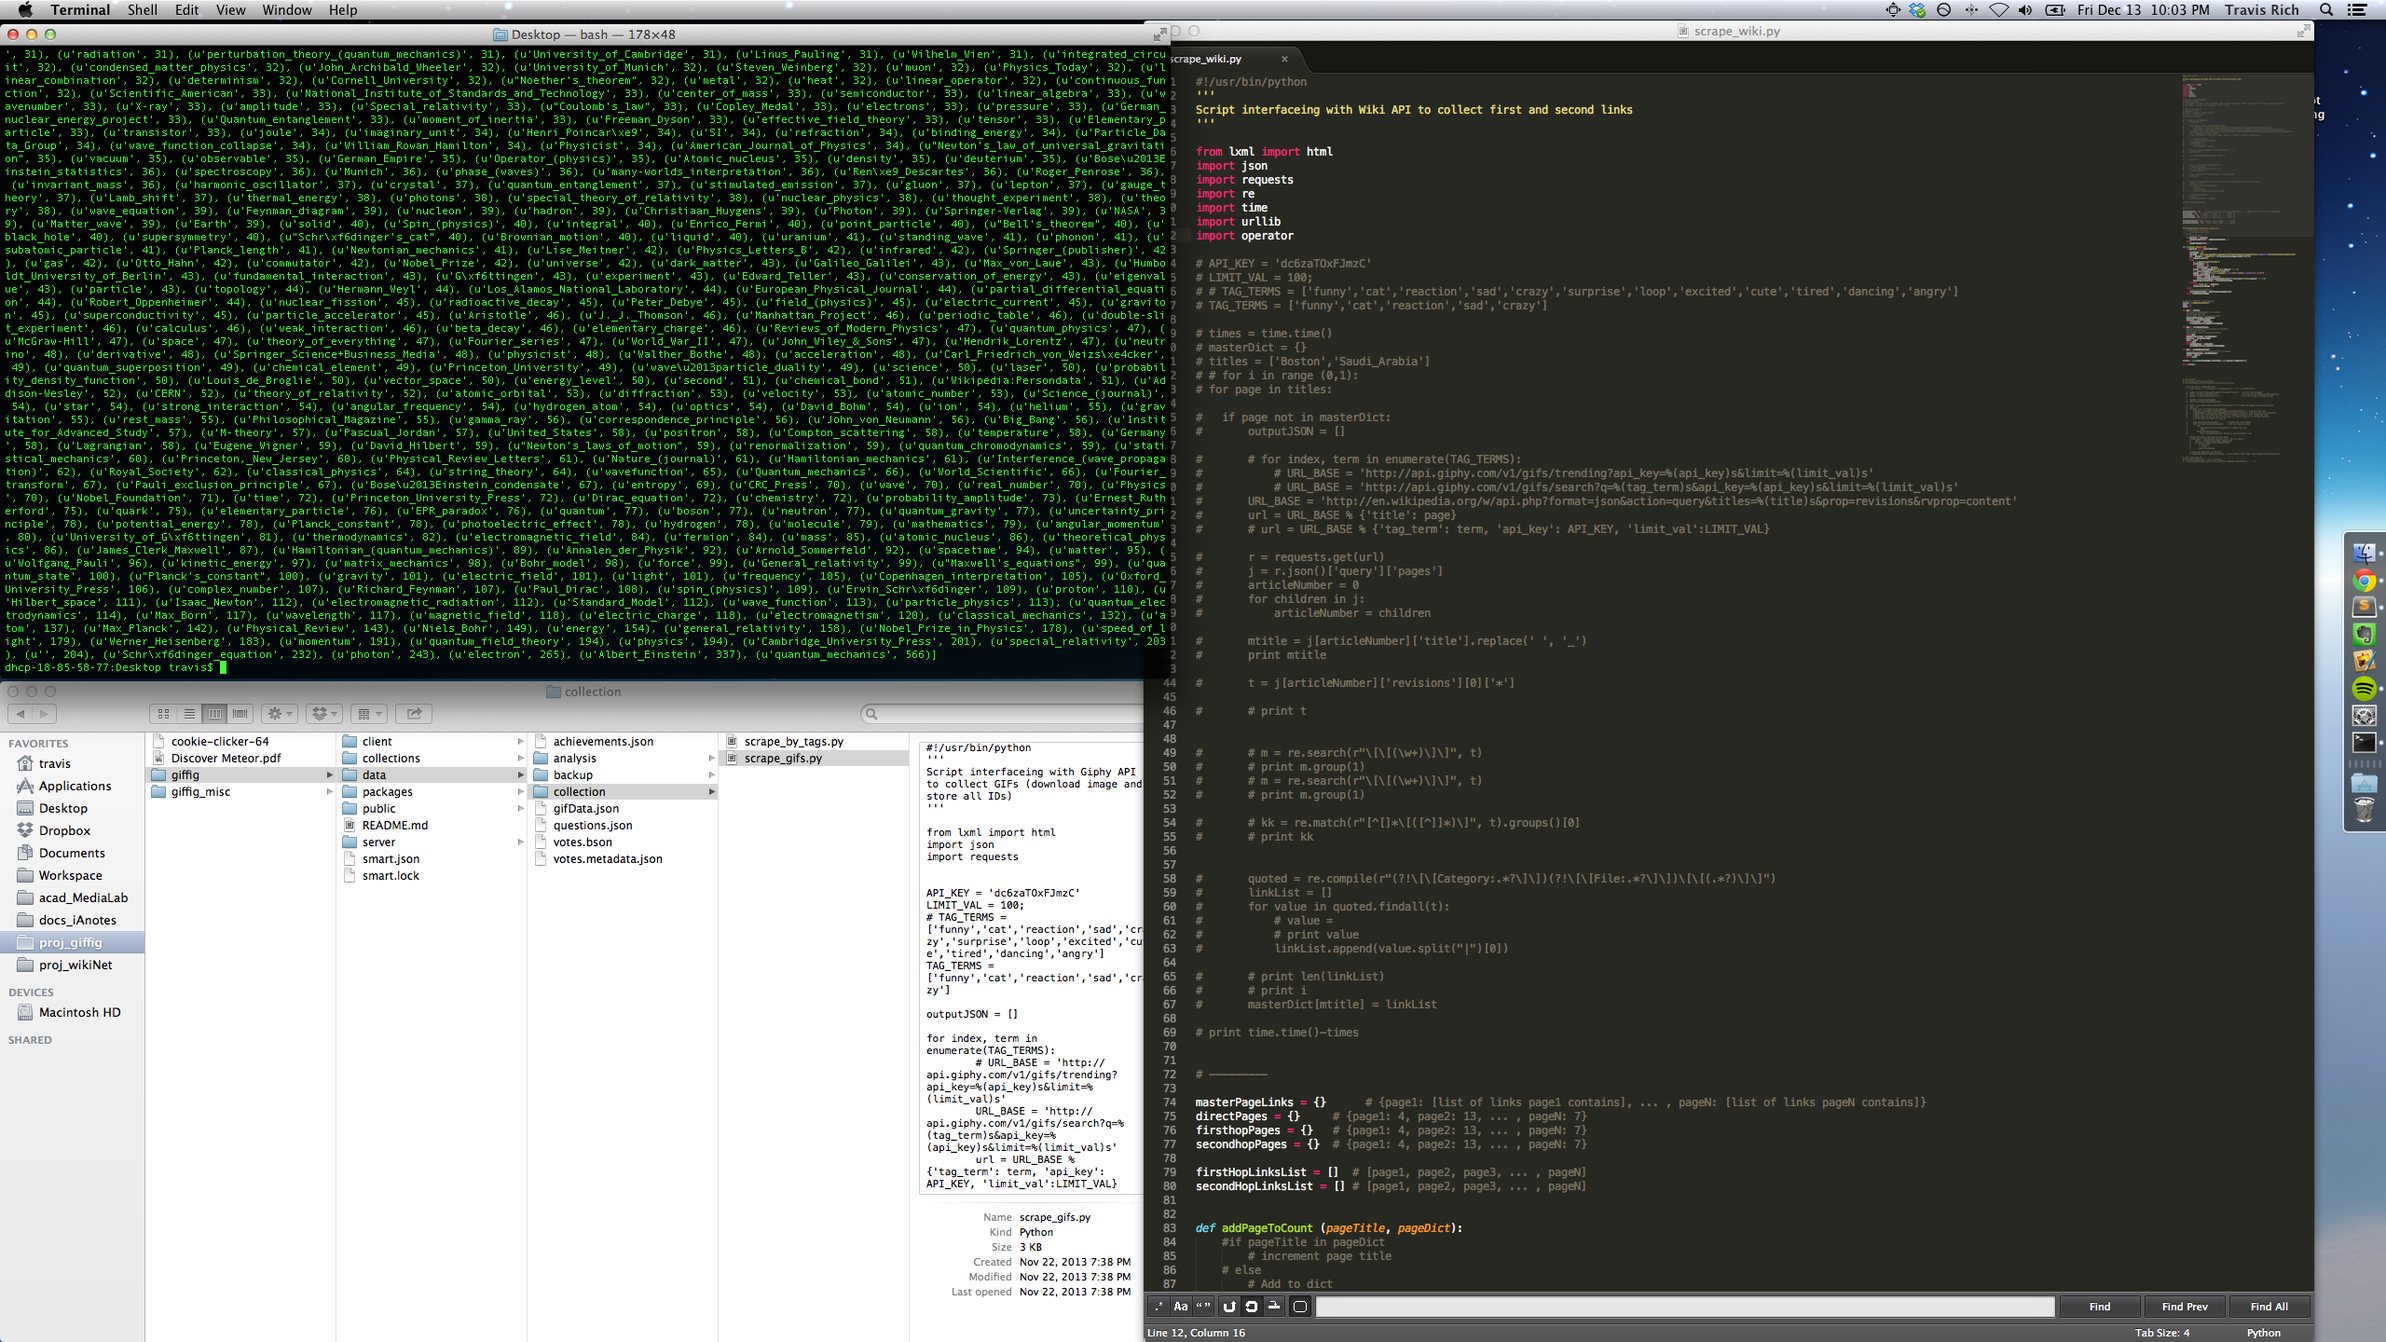
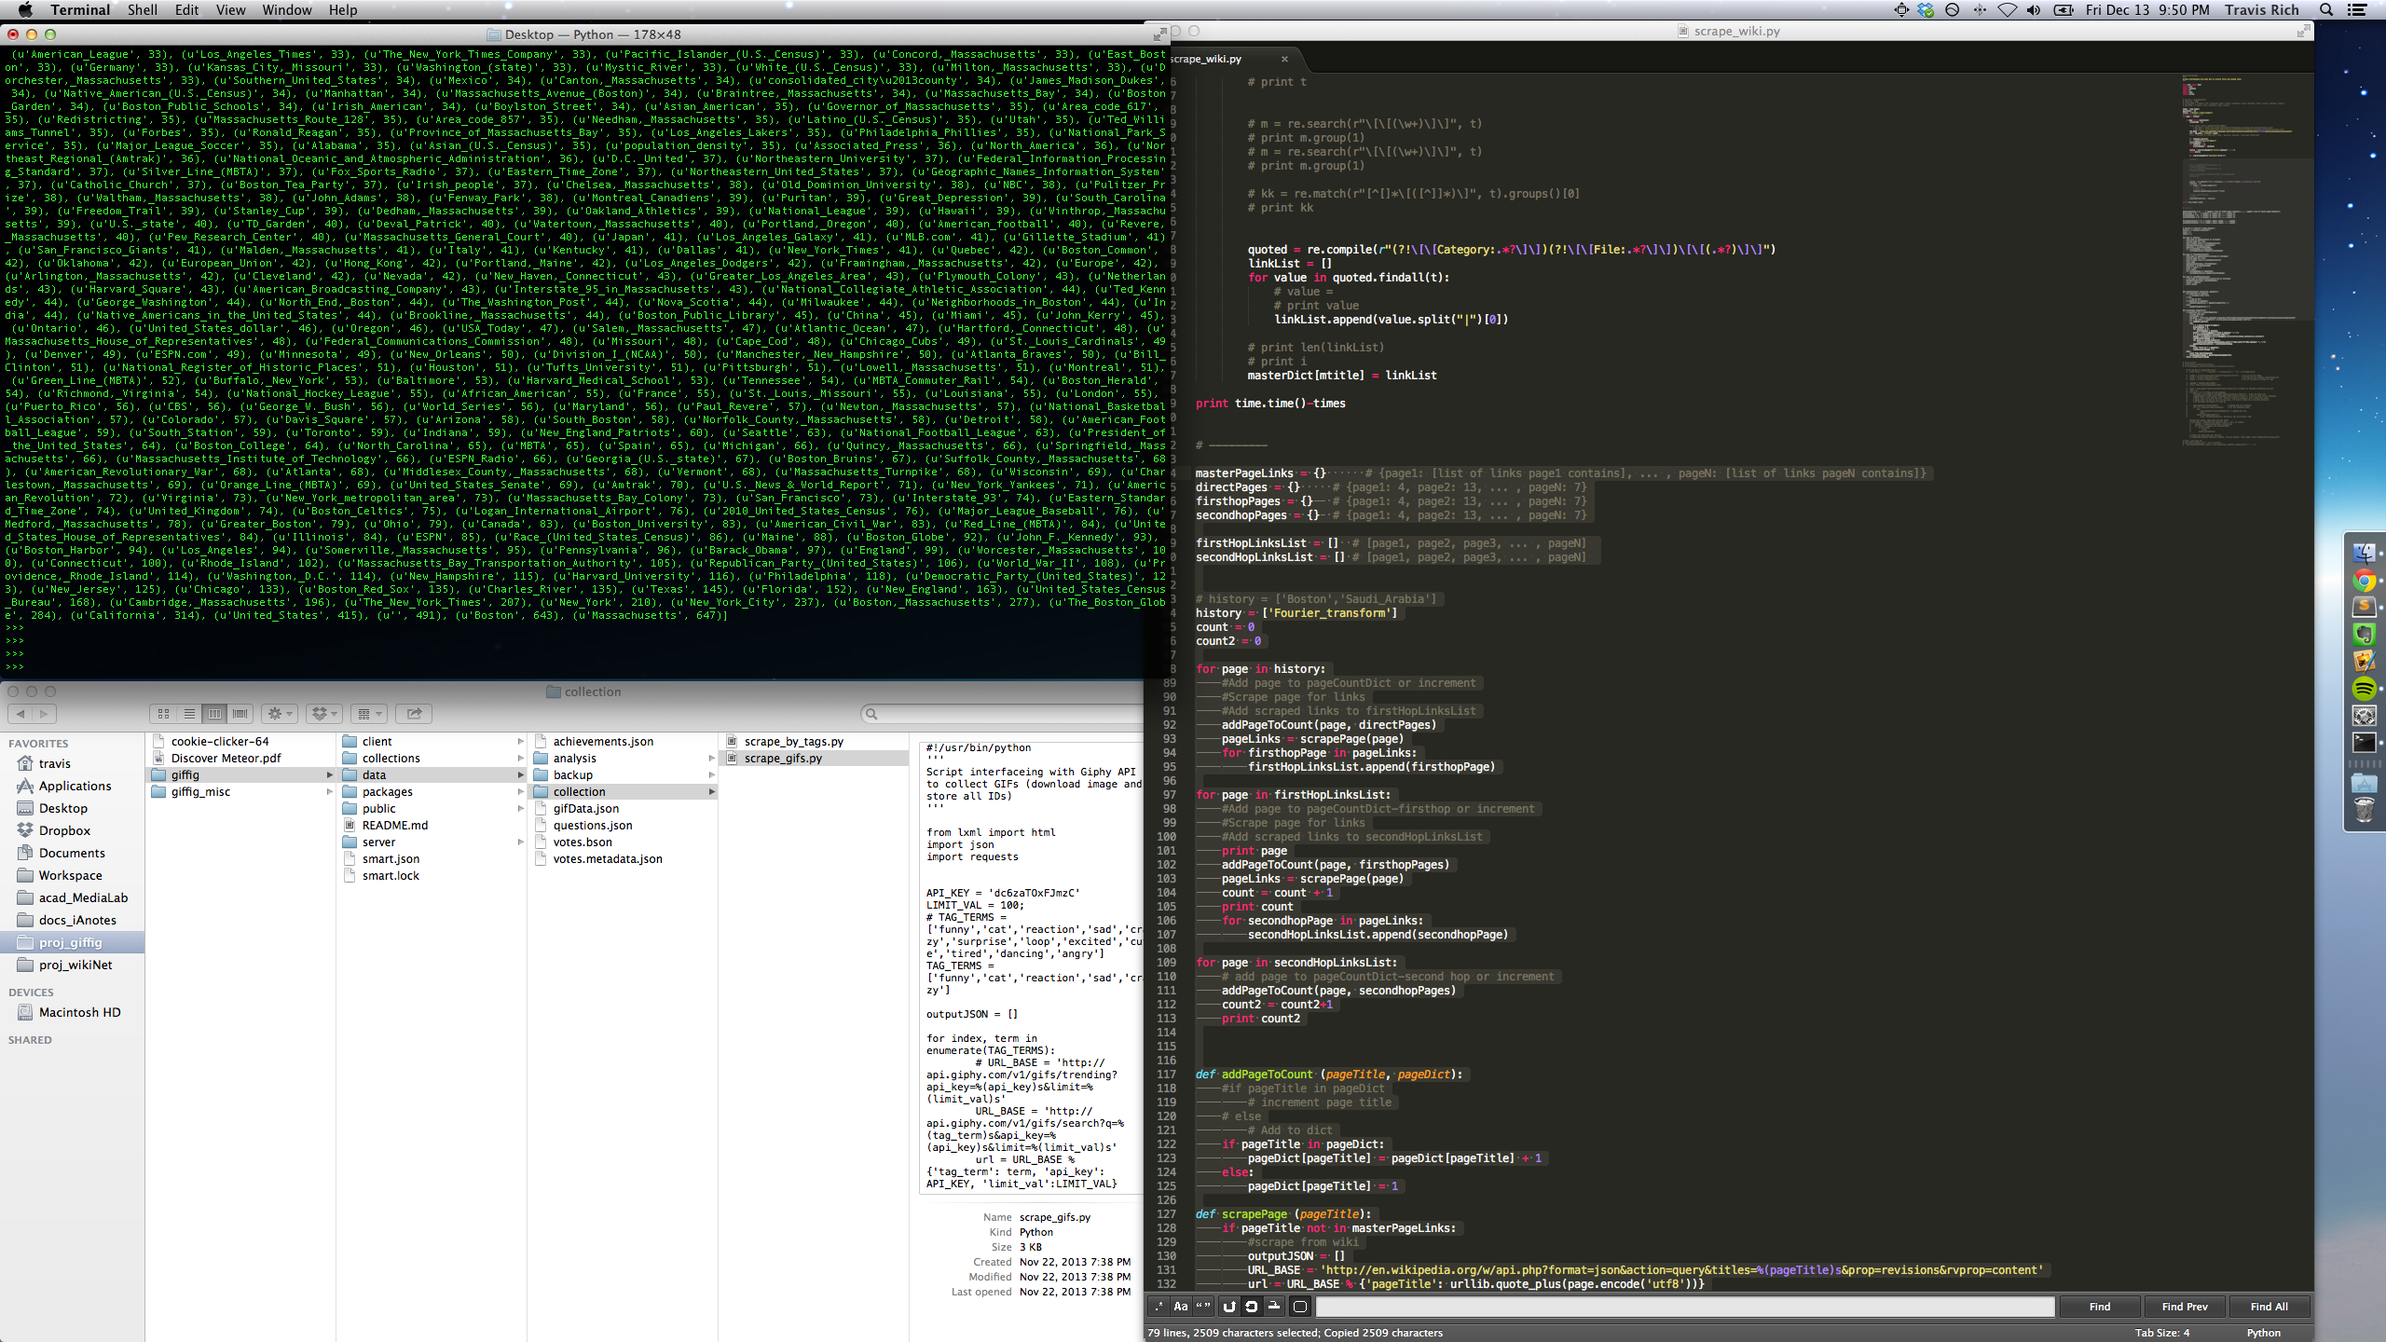
Work on analyze_scrape.py

diff --git a/extension/src/js/background.js b/extension/src/js/background.js
@@ -2,7 +2,7 @@
 chrome.tabs.onUpdated.addListener(checkForValidUrl);
 
 function checkForValidUrl(tabId, changeInfo, tab) {
-  if (tab.url == "file://localhost/Users/travis/Workspace/acad_MediaLab/proj_wikiNet/site/index.html") {
+  if (tab.url == "file://localhost/Users/travis/Workspace/acad_MediaLab/proj_wikiNet/client/index.html") {
     chrome.pageAction.show(tabId); // show the page action
 
     if (tab.url !== undefined && changeInfo.status == "complete") {
@@ -15,7 +15,7 @@ function sendHistory(){
   chrome.history.search({
       'text': 'http://en.wikipedia.org/wiki/*',              // Return every history item....
       'maxResults': 10000 ,
-      'startTime': 0  // that was accessed less than one week ago.
+      'startTime': 0  
     },
     function(historyItems) {
       console.log(historyItems.length);

diff --git a/data/analysis/analyze_scrape.py b/data/analysis/analyze_scrape.py
@@ -1,64 +1,247 @@
-
-#  Data for directPages link count
-maxCount = directPages[max(directPages.iteritems(), key=operator.itemgetter(1))[0]]
-directlinkCountArray = [0]*maxCount # each index (N) represents having N+1 number of links. The value of that index represents how many sites contain N+1 links
-
-for item in directPages:
-	directlinkCountArray[directPages[item]-1] += 1
-
-
-#  Data for firsthopPages link count
-maxCount = firsthopPages[max(firsthopPages.iteritems(), key=operator.itemgetter(1))[0]]
-firstlinkCountArray = [0]*maxCount # each index (N) represents having N+1 number of links. The value of that index represents how many sites contain N+1 links
-
-for item in firsthopPages:
-	firstlinkCountArray[firsthopPages[item]-1] += 1
-
-
-#  Data for secondhopPages link count
-maxCount = secondhopPages[max(secondhopPages.iteritems(), key=operator.itemgetter(1))[0]]
-secondlinkCountArray = [0]*maxCount # each index (N) represents having N+1 number of links. The value of that index represents how many sites contain N+1 links
-
-for item in secondhopPages:
-	secondlinkCountArray[secondhopPages[item]-1] += 1
-
-
-sorted_direct = sorted(directPages.iteritems(), key=operator.itemgetter(1), reverse=True)
-# max(directPages.iteritems(), key=operator.itemgetter(1))[0]
-# print sorted_direct
-
-sorted_first = sorted(firsthopPages.iteritems(), key=operator.itemgetter(1), reverse=True)
-# max(directPages.iteritems(), key=operator.itemgetter(1))[0]
-# print sorted_x
-
-sorted_second = sorted(secondhopPages.iteritems(), key=operator.itemgetter(1), reverse=True)
-# max(directPages.iteritems(), key=operator.itemgetter(1))[0]
-# print sorted_x
-
-pickle.dump( sorted_direct, open( "sorted_direct.p", "wb" ) )
-pickle.dump( sorted_first, open( "sorted_first.p", "wb" ) )
-pickle.dump( sorted_second, open( "sorted_second.p", "wb" ) )
-
-
+from lxml import html
+import json
+import requests
+import re
+import time
+import urllib
+import operator
+from pprint import pprint
 import pickle
-import numpy as np
-import matplotlib.pyplot as plt
+import sys
 
-sorted_direct = pickle.load(open("sorted_direct.p", "rb"))	
-sorted_first = pickle.load(open("sorted_first.p", "rb"))	
-sorted_second = pickle.load(open("sorted_second.p", "rb"))	
 
-x_direct = []
-x_first = []
-x_second = []
 
-for item in sorted_direct:
-	x_direct.append(item[1])
+# # Generate normalized pageCounts
+# # Load in the page count data, looks like: {page1: 4, page2: 13, ... , pageN: 7}
+# # For each page, find the associated entry in masterPage Links, and count the number of links that page has: len(pageLinks)
+# # Divide the pagecount data number by that pageLinkCount number, to normalize results.
+# # Won't work for the secondHop Link since we haven't scraped all the second hop links. 
 
-for item in sorted_first:
-	x_first.append(item[1])
+# masterPageLinks = pickle.load(open("../datasets/masterPageLinks.p", "rb"))  
+# directPages = pickle.load(open("../datasets/directPages.p", "rb")) 
+# firsthopPages = pickle.load(open("../datasets/firsthopPages.p", "rb"))
+# secondhopPages = pickle.load(open("../datasets/secondhopPages.p", "rb"))
 
-for item in sorted_second:
-	x_second.append(item[1])
+# directPages_normalized = directPages
+# firsthopPages_normalized = firsthopPages
+# secondhopPages_normalized = secondhopPages
 
-linkStrengthList = {}
+# for page in directPages_normalized:
+# 	# For each page, check to make sure the page is in masterLinks
+# 	# If it is, get the length of that link in Master pages
+# 	# directPages_normalized[page] = 0
+# 	try:
+# 		numHits = float(directPages_normalized[page])
+# 		numLinksOnPage = float(len(masterPageLinks[page.lower()]))
+# 		if numLinksOnPage == 1:
+# 			numLinksOnPage = float(len(masterPageLinks[masterPageLinks[page.lower()][0].lower()]))
+# 		directPages_normalized[page] = numHits/numLinksOnPage
+# 	except:
+# 		# print page.lower()
+# 		directPages_normalized[page] = 0
+# 		# print "Oops. Error"
+
+# directPages_normalized_sorted = sorted(directPages_normalized.iteritems(), key=operator.itemgetter(1), reverse=True)
+# pickle.dump( directPages_normalized_sorted, open( "../datasets/directPages_normalized_sorted.p", "wb" ) )
+
+# print "Top Ten Direct Pages Normalized"
+# print directPages_normalized_sorted[0:10]
+# print "------------------------------"
+
+# # -------------
+
+# for page in firsthopPages_normalized:
+# 	try:
+# 		numHits = float(firsthopPages_normalized[page])
+# 		numLinksOnPage = float(len(masterPageLinks[page.lower()]))
+# 		if numLinksOnPage == 1:
+# 			numLinksOnPage = float(len(masterPageLinks[masterPageLinks[page.lower()][0].lower()]))
+# 		firsthopPages_normalized[page] = numHits/numLinksOnPage
+# 	except:
+# 		firsthopPages_normalized[page] = 0
+
+# firsthopPages_normalized_sorted = sorted(firsthopPages_normalized.iteritems(), key=operator.itemgetter(1), reverse=True)
+# pickle.dump( firsthopPages_normalized_sorted, open( "../datasets/firsthopPages_normalized_sorted.p", "wb" ) )
+# print "Top Ten First Hop Pages Normalized"
+# print firsthopPages_normalized_sorted[0:10]
+# print "------------------------------"
+
+# # -------------
+
+# for page in secondhopPages_normalized:
+# 	try:
+# 		numHits = float(secondhopPages_normalized[page])
+# 		numLinksOnPage = float(len(masterPageLinks[page.lower()]))
+# 		if numLinksOnPage == 1:
+# 			numLinksOnPage = float(len(masterPageLinks[masterPageLinks[page.lower()][0].lower()]))
+# 			print page
+# 		secondhopPages_normalized[page] = numHits/numLinksOnPage
+# 	except:
+# 		secondhopPages_normalized[page] = 0
+
+# secondhopPages_normalized_sorted = sorted(secondhopPages_normalized.iteritems(), key=operator.itemgetter(1), reverse=True)
+# pickle.dump( secondhopPages_normalized_sorted, open( "../datasets/secondhopPages_normalized_sorted.p", "wb" ) )
+# print "Top Ten Second Hop Pages Normalized"
+# print secondhopPages_normalized_sorted[0:10]
+# print "------------------------------"
+
+# # End Normalize Page Count
+# # ------------------------------
+
+
+
+
+
+
+# Total Number of pages
+# Top 10 hits
+# Num pages with only 1 hit
+# Page with most hits has N hits
+
+
+# Analysis on Direct Pages (pages visited by the user)
+
+print "Beginning Direct Page Analysis"
+print "------------------------------"
+
+directPages = pickle.load(open("../datasets/directPages.p", "rb")) 
+directPages_normalized_sorted = pickle.load(open("../datasets/directPages_normalized_sorted.p", "rb")) 
+
+print "Total Number of Pages: " + str(len(directPages))
+
+directPages_sorted = sorted(directPages.iteritems(), key=operator.itemgetter(1), reverse=True)
+maxHits_direct = max(directPages.iteritems(), key=operator.itemgetter(1))[1]
+
+print "The page with the most hits has " + str(maxHits_direct) + " hits."
+
+print "Top ten results:"
+pprint(directPages_sorted[0:10])
+print "Top ten normalized results:"
+pprint(directPages_normalized_sorted[0:10])
+print "Finished Direct Page Analysis"
+print "------------------------------"
+
+
+
+
+# Analysis on 1st Hop Pages
+print "Beginning First Hop Page Analysis"
+print "------------------------------"
+firsthopPages = pickle.load(open("../datasets/firsthopPages.p", "rb"))
+firsthopPages_normalized_sorted = pickle.load(open("../datasets/firsthopPages_normalized_sorted.p", "rb")) 
+print "Total Number of Pages: " + str(len(firsthopPages))
+firsthopPages_sorted = sorted(firsthopPages.iteritems(), key=operator.itemgetter(1), reverse=True)
+maxHits_first = max(firsthopPages.iteritems(), key=operator.itemgetter(1))[1]
+print "The page with the most hits has " + str(maxHits_first) + " hits."
+print "Top ten results:"
+pprint(firsthopPages_sorted[100:110])
+print "Top ten normalized results:"
+pprint(firsthopPages_normalized_sorted[100:110])
+print "Finished First Hop Page Analysis"
+print "------------------------------"
+
+
+
+# Analysis on 2st Hop Pages
+print "Beginning Second Hop Page Analysis"
+print "------------------------------"
+
+secondhopPages = pickle.load(open("../datasets/secondhopPages.p", "rb"))
+secondhopPages_normalized_sorted = pickle.load(open("../datasets/secondhopPages_normalized_sorted.p", "rb")) 
+
+print "Total Number of Pages: " + str(len(secondhopPages))
+
+firsthopPages_sorted = sorted(secondhopPages.iteritems(), key=operator.itemgetter(1), reverse=True)
+maxHits_second = max(secondhopPages.iteritems(), key=operator.itemgetter(1))[1]
+
+print "The page with the most hits has " + str(maxHits_second) + " hits."
+
+print "Top ten results:"
+pprint(firsthopPages_sorted[0:10])
+
+print "Top ten normalized results:"
+pprint(secondhopPages_normalized_sorted[0:10])
+
+
+print "Finished Second Hop Page Analysis"
+print "------------------------------"
+
+
+
+
+
+
+
+
+
+
+
+
+
+
+
+
+
+# #  Data for directPages link count
+# maxCount = directPages[max(directPages.iteritems(), key=operator.itemgetter(1))[0]]
+# directlinkCountArray = [0]*maxCount # each index (N) represents having N+1 number of links. The value of that index represents how many sites contain N+1 links
+
+# for item in directPages:
+# 	directlinkCountArray[directPages[item]-1] += 1
+
+
+# #  Data for firsthopPages link count
+# maxCount = firsthopPages[max(firsthopPages.iteritems(), key=operator.itemgetter(1))[0]]
+# firstlinkCountArray = [0]*maxCount # each index (N) represents having N+1 number of links. The value of that index represents how many sites contain N+1 links
+
+# for item in firsthopPages:
+# 	firstlinkCountArray[firsthopPages[item]-1] += 1
+
+
+# #  Data for secondhopPages link count
+# maxCount = secondhopPages[max(secondhopPages.iteritems(), key=operator.itemgetter(1))[0]]
+# secondlinkCountArray = [0]*maxCount # each index (N) represents having N+1 number of links. The value of that index represents how many sites contain N+1 links
+
+# for item in secondhopPages:
+# 	secondlinkCountArray[secondhopPages[item]-1] += 1
+
+
+# sorted_direct = sorted(directPages.iteritems(), key=operator.itemgetter(1), reverse=True)
+# # max(directPages.iteritems(), key=operator.itemgetter(1))[0]
+# # print sorted_direct
+
+# sorted_first = sorted(firsthopPages.iteritems(), key=operator.itemgetter(1), reverse=True)
+# # max(directPages.iteritems(), key=operator.itemgetter(1))[0]
+# # print sorted_x
+
+# sorted_second = sorted(secondhopPages.iteritems(), key=operator.itemgetter(1), reverse=True)
+# # max(directPages.iteritems(), key=operator.itemgetter(1))[0]
+# # print sorted_x
+
+# pickle.dump( sorted_direct, open( "sorted_direct.p", "wb" ) )
+# pickle.dump( sorted_first, open( "sorted_first.p", "wb" ) )
+# pickle.dump( sorted_second, open( "sorted_second.p", "wb" ) )
+
+
+# import pickle
+# import numpy as np
+# import matplotlib.pyplot as plt
+
+# sorted_direct = pickle.load(open("sorted_direct.p", "rb"))	
+# sorted_first = pickle.load(open("sorted_first.p", "rb"))	
+# sorted_second = pickle.load(open("sorted_second.p", "rb"))	
+
+# x_direct = []
+# x_first = []
+# x_second = []
+
+# for item in sorted_direct:
+# 	x_direct.append(item[1])
+
+# for item in sorted_first:
+# 	x_first.append(item[1])
+
+# for item in sorted_second:
+# 	x_second.append(item[1])
+
+# linkStrengthList = {}

diff --git a/data/analysis/scrape_wiki.py b/data/analysis/scrape_wiki.py
@@ -26,9 +26,9 @@ json_data.close()
 historyTitles = []
 
 for item in mHistory:
-	url = mHistory[item][2]
-	count = int(mHistory[item][3])
-	for ii in range(count):
+	url = mHistory[item][2] # The webpage URL
+	count = int(mHistory[item][3]) # The number of times that page was accessed
+	for ii in range(count): # Run this for each time the page was accessed, to get fair weighting.
 		print str(ii) + " of " + str(count)
 		try:
 			# print url.split("wiki/")[1]
@@ -42,14 +42,7 @@ for item in mHistory:
 
 # print historyTitles
 
-	# historyTitles.append(url.match)
-	
-	# historyTitles.append(mHistory[item])
-
-
-
-
-masterPageLinks = {}      # {page1: [list of links page1 contains], ... , pageN: [list of links pageN contains]}
+masterPageLinks = {} # {page1: [list of links page1 contains], ... , pageN: [list of links pageN contains]}
 directPages = {}     # {page1: 4, page2: 13, ... , pageN: 7}
 firsthopPages = {}	 # {page1: 4, page2: 13, ... , pageN: 7}
 secondhopPages = {}	 # {page1: 4, page2: 13, ... , pageN: 7}
@@ -104,11 +97,13 @@ def scrapePage (pageTitle):
 
 # Bokm%C3%A5l
 
+# How many pages are there with only one hit
 countpages = 0
 for page in firsthopPages:
 	if firsthopPages[page] == 1:
 		countpages = countpages + 1
 print str(countpages) + " out of " + str(len(firsthopPages))
+
 
 # Indonesian_killings_of_1965%E2%80%931966
 
@@ -164,20 +159,20 @@ print sorted_x
 
 
 # Clean after direct (first function block)
-pickle.dump( masterPageLinks, open( "masterPageLinks_direct.p", "wb" ) )
-pickle.dump( directPages, open( "directPages.p", "wb" ) )
-pickle.dump( firstHopLinksList, open( "firstHopLinksList.p", "wb" ) )
+# pickle.dump( masterPageLinks, open( "masterPageLinks_direct.p", "wb" ) )
+# pickle.dump( directPages, open( "directPages.p", "wb" ) )
+# pickle.dump( firstHopLinksList, open( "firstHopLinksList.p", "wb" ) )
 
 
-masterPageLinks = pickle.load(open("masterPageLinks.p", "rb"))  
-directPages = pickle.load(open("directPages.p", "rb"))     
-firsthopPages = pickle.load(open("firsthopPages.p", "rb"))	 
+# masterPageLinks = pickle.load(open("masterPageLinks.p", "rb"))  
+# directPages = pickle.load(open("directPages.p", "rb"))     
+# firsthopPages = pickle.load(open("firsthopPages.p", "rb"))	 
 # secondhopPages = pickle.load(open("secondhopPageshalf.p", "rb"))	
 
 firstHopLinksList = pickle.load(open("firstHopLinksList.p", "rb")) 
 # secondHopLinksList = pickle.load(open("secondHopLinksList.p", "rb")) 
 
-pickle.dump( masterPageLinks, open( "masterPageLinks.p", "wb" ) )
+pickle.dump( masterPageLinks, open( "masterPageLinks.p", "wb" ) ) # Add a timestamp to the end
 pickle.dump( firsthopPages, open( "firsthopPages.p", "wb" ) )
 pickle.dump( secondHopLinksList, open( "secondHopLinksList.p", "wb" ) )
 pickle.dump( secondhopPages, open( "secondhopPages.p", "wb" ) )
